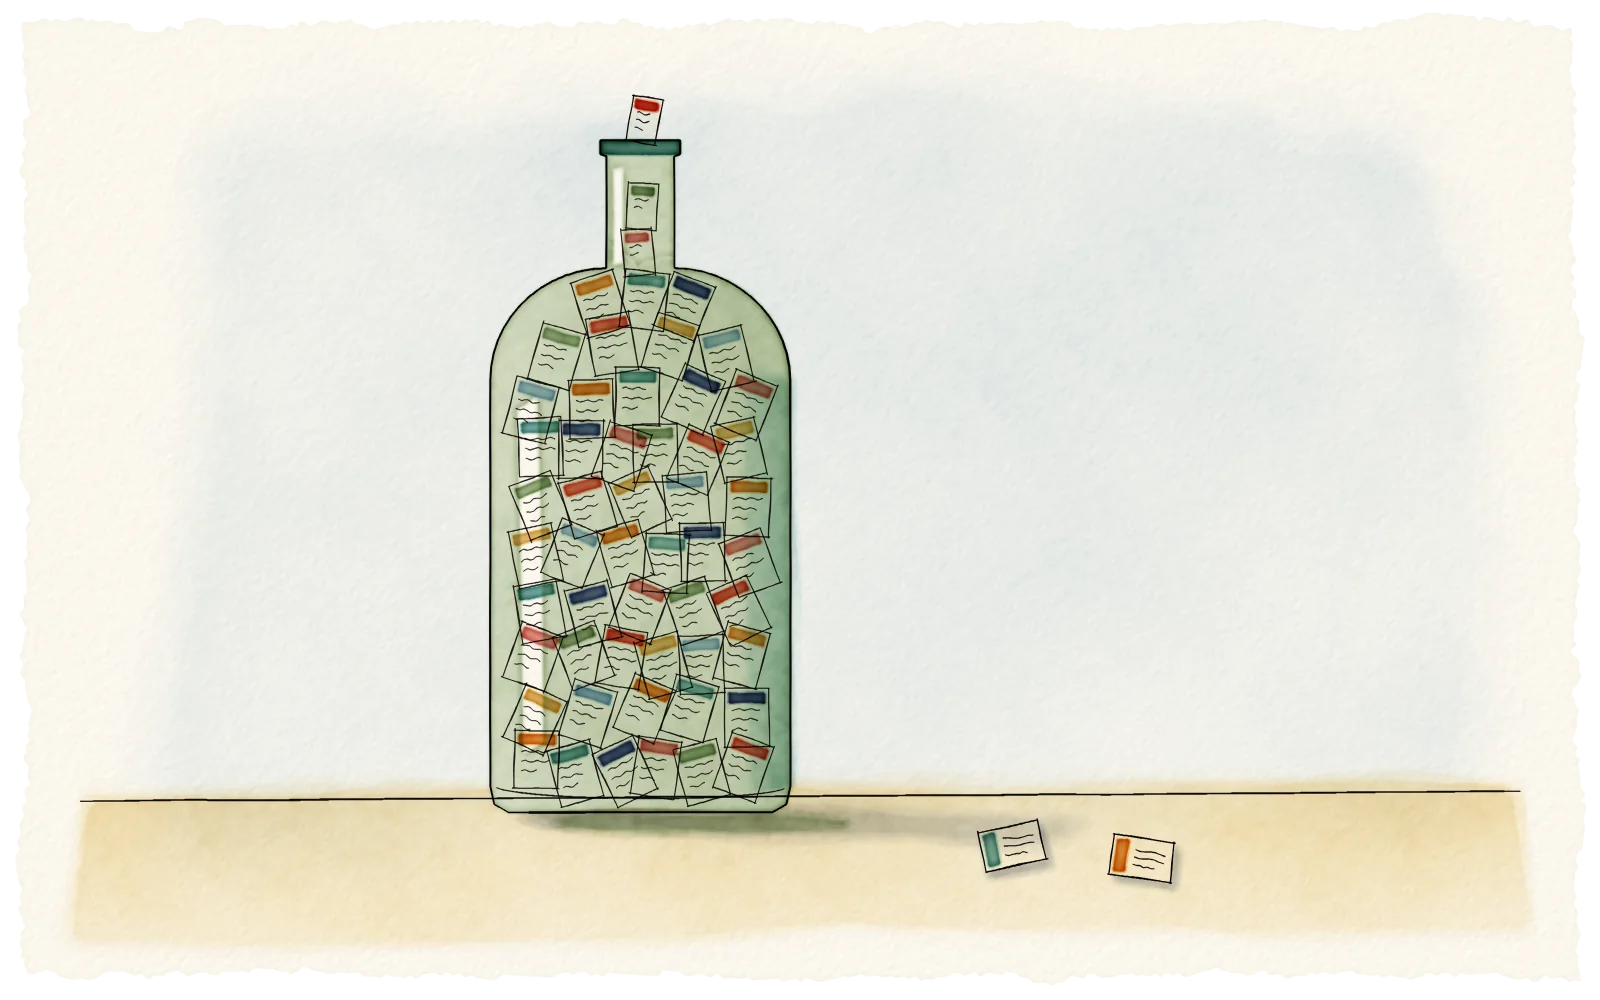
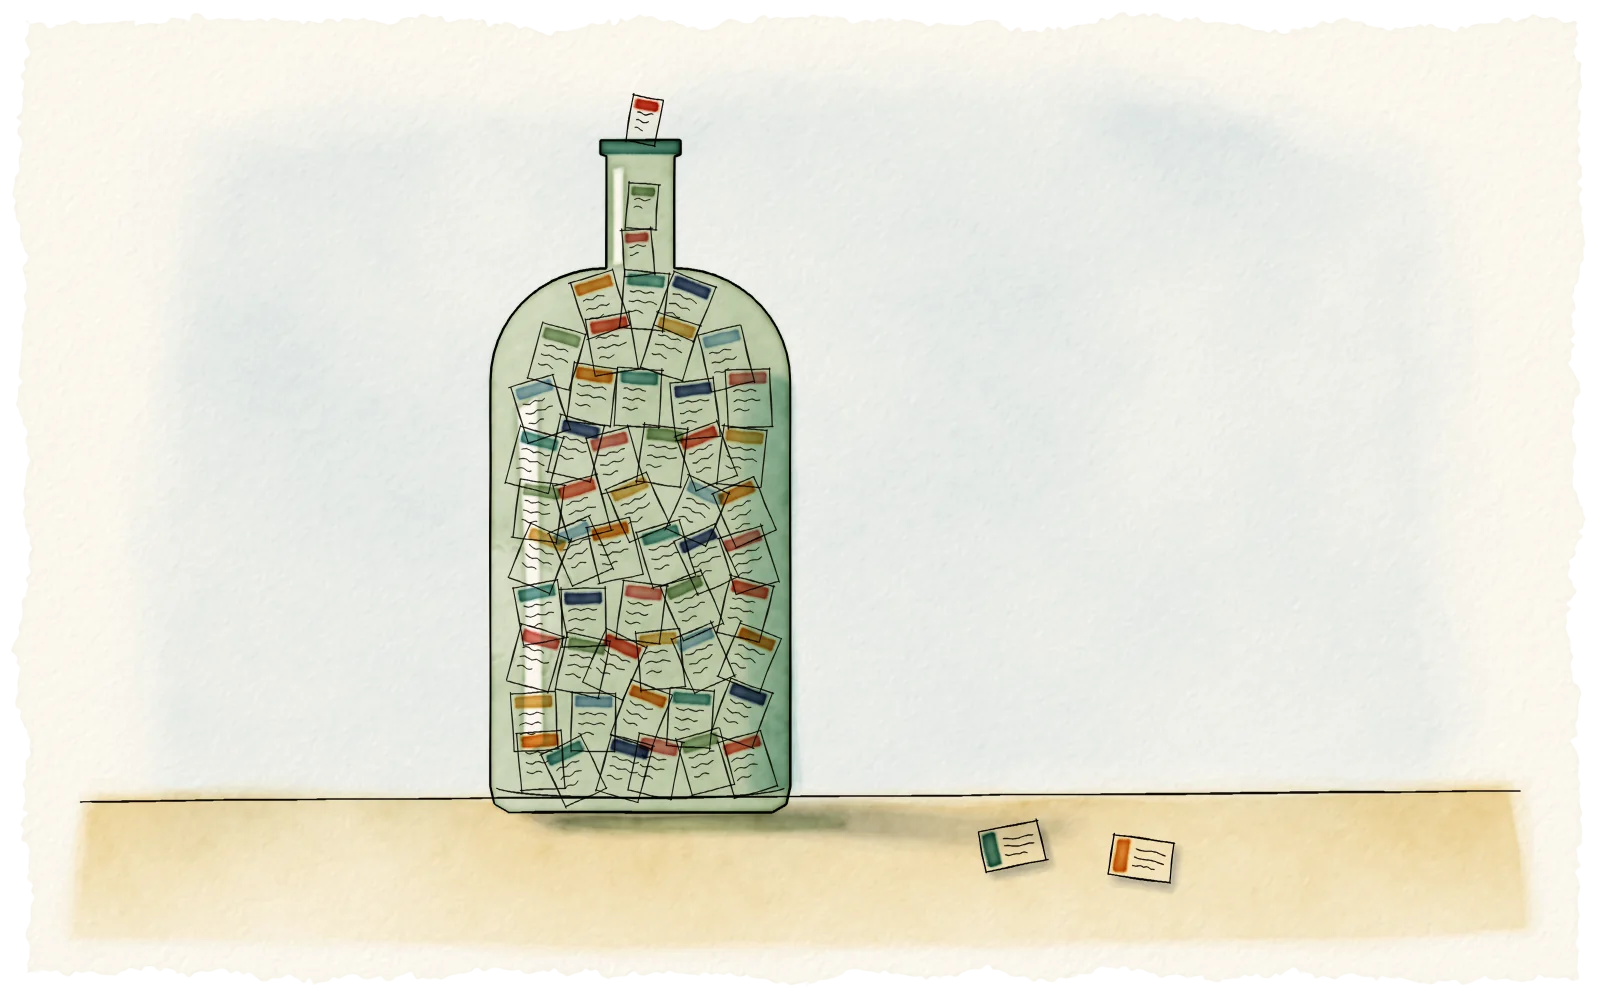
fix(plates): repaint the bottle, knives and notebook from the committed scripts
Their WebP files came from a chained run that cannot be reproduced: `paint.py`
with no arguments would have rewritten them differently, which made the Episode
colophon's "painted by code, anyone can check" untrue for three of the eight
plates. They are painted from the scripts as committed now, and committed.

Checked: painting bottle, knives and notebook alone, then every plate in one run
(`paint.py`), leaves the three byte-identical to each other and changes no other
file, so the five that already matched still do. Each is under 160KB (bottle
89KB, knives 50KB, notebook 85KB), and the comment in paint.py that admitted the
problem is gone, replaced by what makes a plate reproducible.

What looks different, against the old files on paper: the bottle's cards are
shuffled (same count and palette, different arrangement and tilts), its blue wash
sits a little differently and the two cards on the table moved; the notebook's
handwriting squiggles are different lines and the circled phrase sits on another
row; the knives are the same picture with the paper's wash shifted slightly.
Composition, palette, framing and size are unchanged. Painted with the
numpy, opencv and scipy of a local venv rather than `uv run`'s resolution.

Refs #320

Changed region(s): [[0.0625, 0.186, 0.9375, 0.899], [0.3438, 0.93, 0.7812, 0.961], [0.375, 0.093, 0.4062, 0.124]]

diff --git a/scripts/watercolour/paint.py b/scripts/watercolour/paint.py
@@ -88,9 +88,8 @@ def main(names):
         # A plate paints the same whatever ran before it. wc.py keeps its random
         # state at module level, and a script takes a copy of it when it imports wc,
         # so a second script in this process would otherwise start from the end of
-        # the first one's. (bottle, knives and notebook were painted that way, in one
-        # chained run, and their committed WebP files are what it gave; painted alone,
-        # as here, they come out a little differently. The other five match.)
+        # the first one's. Dropping the module is what makes a plate come out
+        # byte for byte the same alone, in a full run, or on another day.
         sys.modules.pop("wc", None)
         script = runpy.run_path(os.path.join(SCRIPTS, f"{name}.py"), run_name="__main__")
         if "DEST" not in script:
